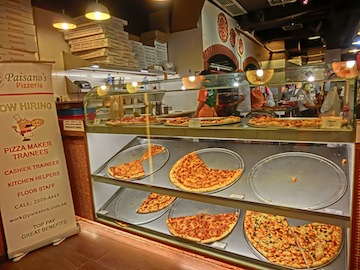
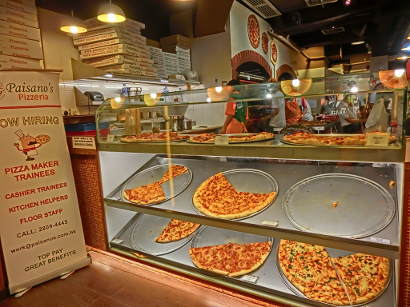
Minify js files. Set height and width of pizza images.

diff --git a/views/js/main.min.js b/views/js/main.min.js
@@ -1,1 +1,1 @@
-function getAdj(e){return pizzaAdjs[e]}function getNoun(e){return pizzaNouns[e]}function randomNumber(e){return Math.floor(Math.random()*e)}function pizzaNameGenerator(e,t){var n=getAdj(e);var r=getNoun(t);var i=randomNumber(ADJ_LENGTH);var s=randomNumber(NOUN_LENGTH);var o="The "+n[i].capitalize()+" "+r[s].capitalize();return o}function randomPizzaName(){var e=randomNumber(ADJ_LENGTH);var t=randomNumber(NOUN_LENGTH);return pizzaNameGenerator(adjectives[e],nouns[t])}function logAverageFrame(e){var t=e.length;var n=0;for(var r=t-1;r>t-11;r--){n=n+e[r].duration}console.log("Average time to generate last 10 frames: "+n/10+"ms")}function onScroll(){latestKnownScrollY=window.scrollY;requestTick()}function requestTick(){if(!ticking){requestAnimationFrame(updatePositions)}ticking=true}function updatePositions(){frame++;ticking=false;window.performance.mark("mark_start_frame");var e=document.querySelectorAll(".mover");var t=e.length;var n=latestKnownScrollY;for(var r=0;r<t;r++){var i=Math.sin(n/1250+r%5);e[r].style.left=e[r].basicLeft+"px";e[r].style.transform="translateX("+100*i+"px)"}window.performance.mark("mark_end_frame");window.performance.measure("measure_frame_duration","mark_start_frame","mark_end_frame");if(frame%10===0){var s=window.performance.getEntriesByName("measure_frame_duration");logAverageFrame(s)}}var pizzaIngredients={};pizzaIngredients.meats=["Pepperoni","Sausage","Fennel Sausage","Spicy Sausage","Chicken","BBQ Chicken","Chorizo","Chicken Andouille","Salami","Tofu","Bacon","Canadian Bacon","Proscuitto","Italian Sausage","Ground Beef","Anchovies","Turkey","Ham","Venison","Lamb","Duck","Soylent Green","Carne Asada","Soppressata Picante","Coppa","Pancetta","Bresola","Lox","Guanciale","Chili","Beef Jerky","Pastrami","Kielbasa","Scallops","Filet Mignon"];pizzaIngredients.nonMeats=["White Onions","Red Onions","Sauteed Onions","Green Peppers","Red Peppers","Banana Peppers","Ghost Peppers","Habanero Peppers","Jalapeno Peppers","Stuffed Peppers","Spinach","Tomatoes","Pineapple","Pear Slices","Apple Slices","Mushrooms","Arugula","Basil","Fennel","Rosemary","Cilantro","Avocado","Guacamole","Salsa","Swiss Chard","Kale","Sun Dried Tomatoes","Walnuts","Artichoke","Asparagus","Caramelized Onions","Mango","Garlic","Olives","Cauliflower","Polenta","Fried Egg","Zucchini","Hummus"];pizzaIngredients.cheeses=["American Cheese","Swiss Cheese","Goat Cheese","Mozzarella Cheese","Parmesean Cheese","Velveeta Cheese","Gouda Cheese","Muenster Cheese","Applewood Cheese","Asiago Cheese","Bleu Cheese","Boursin Cheese","Brie Cheese","Cheddar Cheese","Chevre Cheese","Havarti Cheese","Jack Cheese","Pepper Jack Cheese","Gruyere Cheese","Limberger Cheese","Manchego Cheese","Marscapone Cheese","Pecorino Cheese","Provolone Cheese","Queso Cheese","Roquefort Cheese","Romano Cheese","Ricotta Cheese","Smoked Gouda"];pizzaIngredients.sauces=["Red Sauce","Marinara","BBQ Sauce","No Sauce","Hot Sauce"];pizzaIngredients.crusts=["White Crust","Whole Wheat Crust","Flatbread Crust","Stuffed Crust"];var pizzaAdjs={};pizzaAdjs.dark=["dark","morbid","scary","spooky","gothic","deviant","creepy","sadistic","black","dangerous","dejected","haunted","morose","tragic","shattered","broken","sad","melancholy","somber","dark","gloomy","homicidal","murderous","shady","misty","dusky","ghostly","shadowy","demented","cursed","insane","possessed","grotesque","obsessed"];pizzaAdjs.colors=["blue","green","purple","grey","scarlet","NeonGreen","NeonBlue","NeonPink","HotPink","pink","black","red","maroon","silver","golden","yellow","orange","mustard","plum","violet","cerulean","brown","lavender","violet","magenta","chestnut","rosy","copper","crimson","teal","indigo","navy","azure","periwinkle","brassy","verdigris","veridian","tan","raspberry","beige","sandy","ElectricBlue","white","champagne","coral","cyan"];pizzaAdjs.whimsy=["whimsical","silly","drunken","goofy","funny","weird","strange","odd","playful","clever","boastful","breakdancing","hilarious","conceited","happy","comical","curious","peculiar","quaint","quirky","fancy","wayward","fickle","yawning","sleepy","cockeyed","dizzy","dancing","absurd","laughing","hairy","smiling","perplexed","baffled","cockamamie","vulgar","hoodwinked","brainwashed"];pizzaAdjs.shiny=["sapphire","opal","silver","gold","platinum","ruby","emerald","topaz","diamond","amethyst","turquoise","starlit","moonlit","bronze","metal","jade","amber","garnet","obsidian","onyx","pearl","copper","sunlit","brass","brassy","metallic"];pizzaAdjs.noisy=["untuned","loud","soft","shrieking","melodious","musical","operatic","symphonic","dancing","lyrical","harmonic","orchestral","noisy","dissonant","rhythmic","hissing","singing","crooning","shouting","screaming","wailing","crying","howling","yelling","hollering","caterwauling","bawling","bellowing","roaring","squealing","beeping","knocking","tapping","rapping","humming","scatting","whispered","whispering","rasping","buzzing","whirring","whistling","whistled"];pizzaAdjs.apocalyptic=["nuclear","apocalyptic","desolate","atomic","zombie","collapsed","grim","fallen","collapsed","cannibalistic","radioactive","toxic","poisonous","venomous","disastrous","grimy","dirty","undead","bloodshot","rusty","glowing","decaying","rotten","deadly","plagued","decimated","rotting","putrid","decayed","deserted","acidic"];pizzaAdjs.insulting=["stupid","idiotic","fat","ugly","hideous","grotesque","dull","dumb","lazy","sluggish","brainless","slow","gullible","obtuse","dense","dim","dazed","ridiculous","witless","daft","crazy","vapid","inane","mundane","hollow","vacuous","boring","insipid","tedious","monotonous","weird","bizarre","backward","moronic","ignorant","scatterbrained","forgetful","careless","lethargic","insolent","indolent","loitering","gross","disgusting","bland","horrid","unseemly","revolting","homely","deformed","disfigured","offensive","cowardly","weak","villainous","fearful","monstrous","unattractive","unpleasant","nasty","beastly","snide","horrible","syncophantic","unhelpful","bootlicking"];pizzaAdjs.praise=["beautiful","intelligent","smart","genius","ingenious","gorgeous","pretty","witty","angelic","handsome","graceful","talented","exquisite","enchanting","fascinating","interesting","divine","alluring","ravishing","wonderful","magnificient","marvelous","dazzling","cute","charming","attractive","nifty","delightful","superior","amiable","gentle","heroic","courageous","valiant","brave","noble","daring","fearless","gallant","adventurous","cool","enthusiastic","fierce","awesome","radical","tubular","fearsome","majestic","grand","stunning"];pizzaAdjs.scientific=["scientific","technical","digital","programming","calculating","formulating","cyberpunk","mechanical","technological","innovative","brainy","chemical","quantum","astro","space","theoretical","atomic","electronic","gaseous","investigative","solar","extinct","galactic"];var pizzaNouns={};pizzaNouns.animals=["flamingo","hedgehog","owl","elephant","pussycat","alligator","dachsund","poodle","beagle","crocodile","kangaroo","wallaby","woodpecker","eagle","falcon","canary","parrot","parakeet","hamster","gerbil","squirrel","rat","dove","toucan","raccoon","vulture","peacock","goldfish","rook","koala","skunk","goat","rooster","fox","porcupine","llama","grasshopper","gorilla","monkey","seahorse","wombat","wolf","giraffe","badger","lion","mouse","beetle","cricket","nightingale","hawk","trout","squid","octopus","sloth","snail","locust","baboon","lemur","meerkat","oyster","frog","toad","jellyfish","butterfly","caterpillar","tiger","hyena","zebra","snail","pig","weasel","donkey","penguin","crane","buzzard","vulture","rhino","hippopotamus","dolphin","sparrow","beaver","moose","minnow","otter","bat","mongoose","swan","firefly","platypus"];pizzaNouns.professions=["doctor","lawyer","ninja","writer","samurai","surgeon","clerk","artist","actor","engineer","mechanic","comedian","fireman","nurse","RockStar","musician","carpenter","plumber","cashier","electrician","waiter","president","governor","senator","scientist","programmer","singer","dancer","director","mayor","merchant","detective","investigator","navigator","pilot","priest","cowboy","stagehand","soldier","ambassador","pirate","miner","police"];pizzaNouns.fantasy=["centaur","wizard","gnome","orc","troll","sword","fairy","pegasus","halfling","elf","changeling","ghost","knight","squire","magician","witch","warlock","unicorn","dragon","wyvern","princess","prince","king","queen","jester","tower","castle","kraken","seamonster","mermaid","psychic","seer","oracle"];pizzaNouns.music=["violin","flute","bagpipe","guitar","symphony","orchestra","piano","trombone","tuba","opera","drums","harpsichord","harp","harmonica","accordion","tenor","soprano","baritone","cello","viola","piccolo","ukelele","woodwind","saxophone","bugle","trumpet","sousaphone","cornet","stradivarius","marimbas","bells","timpani","bongos","clarinet","recorder","oboe","conductor","singer"];pizzaNouns.horror=["murderer","chainsaw","knife","sword","murder","devil","killer","psycho","ghost","monster","godzilla","werewolf","vampire","demon","graveyard","zombie","mummy","curse","death","grave","tomb","beast","nightmare","frankenstein","specter","poltergeist","wraith","corpse","scream","massacre","cannibal","skull","bones","undertaker","zombie","creature","mask","psychopath","fiend","satanist","moon","fullMoon"];pizzaNouns.gross=["slime","bug","roach","fluid","pus","booger","spit","boil","blister","orifice","secretion","mucus","phlegm","centipede","beetle","fart","snot","crevice","flatulence","juice","mold","mildew","germs","discharge","toilet","udder","odor","substance","fluid","moisture","garbage","trash","bug"];pizzaNouns.everyday=["mirror","knife","fork","spork","spoon","tupperware","minivan","suburb","lamp","desk","stereo","television","TV","book","car","truck","soda","door","video","game","computer","calender","tree","plant","flower","chimney","attic","kitchen","garden","school","wallet","bottle"];pizzaNouns.jewelry=["earrings","ring","necklace","pendant","choker","brooch","bracelet","cameo","charm","bauble","trinket","jewelry","anklet","bangle","locket","finery","crown","tiara","blingBling","chain","rosary","jewel","gemstone","beads","armband","pin","costume","ornament","treasure"];pizzaNouns.places=["swamp","graveyard","cemetery","park","building","house","river","ocean","sea","field","forest","woods","neighborhood","city","town","suburb","country","meadow","cliffs","lake","stream","creek","school","college","university","library","bakery","shop","store","theater","garden","canyon","highway","restaurant","cafe","diner","street","road","freeway","alley"];pizzaNouns.scifi=["robot","alien","raygun","spaceship","UFO","rocket","phaser","astronaut","spaceman","planet","star","galaxy","computer","future","timeMachine","wormHole","timeTraveler","scientist","invention","martian","pluto","jupiter","saturn","mars","quasar","blackHole","warpDrive","laser","orbit","gears","molecule","electron","neutrino","proton","experiment","photon","apparatus","universe","gravity","darkMatter","constellation","circuit","asteroid"];var adjectives=["dark","colors","whimsy","shiny","noisy","apocalyptic","insulting","praise","scientific"];var nouns=["animals","everyday","fantasy","gross","professions","horror","jewelry","places","scifi"];var NUMBER_OF_PIZZA=100,ADJ_LENGTH=adjectives.length,NOUN_LENGTH=nouns.length,MEAT_LENGTH=pizzaIngredients.meats.length,NONMEAT_LENGTH=pizzaIngredients.nonMeats.length,CHEESES_LENGTH=pizzaIngredients.cheeses.length,SAUCES_LENGTH=pizzaIngredients.sauces.length,CRUSTS_LENGTH=pizzaIngredients.crusts.length;String.prototype.capitalize=function(){return this.charAt(0).toUpperCase()+this.slice(1)};var selectRandomMeat=function(){return pizzaIngredients.meats[randomNumber(MEAT_LENGTH)]};var selectRandomNonMeat=function(){return pizzaIngredients.nonMeats[randomNumber(NONMEAT_LENGTH)]};var selectRandomCheese=function(){return pizzaIngredients.cheeses[randomNumber(CHEESES_LENGTH)]};var selectRandomSauce=function(){return pizzaIngredients.sauces[randomNumber(SAUCES_LENGTH)]};var selectRandomCrust=function(){return pizzaIngredients.crusts[randomNumber(CRUSTS_LENGTH)]};var ingredientItemizer=function(e){return"<li>"+e+"</li>"};var makeRandomPizzaIngredients=function(){var e="";var t=Math.floor(Math.random()*4);var n=Math.floor(Math.random()*3);var r=Math.floor(Math.random()*2);for(var i=0;i<t;i++){e=e+ingredientItemizer(selectRandomMeat())}for(var i=0;i<n;i++){e=e+ingredientItemizer(selectRandomNonMeat())}for(var i=0;i<r;i++){e=e+ingredientItemizer(selectRandomCheese())}e=e+ingredientItemizer(selectRandomSauce());e=e+ingredientItemizer(selectRandomCrust());return e};var pizzaElementGenerator=function(e){var t,n,r,i,s,o;t=document.createElement("div");n=document.createElement("div");r=document.createElement("img");i=document.createElement("div");t.classList.add("randomPizzaContainer");t.style.width="33.33%";t.style.height="325px";t.id="pizza"+e;n.classList.add("col-md-6");r.src="images/pizza.png";r.classList.add("img-responsive");n.appendChild(r);t.appendChild(n);i.classList.add("col-md-6");s=document.createElement("h4");s.innerHTML=randomPizzaName();i.appendChild(s);o=document.createElement("ul");o.innerHTML=makeRandomPizzaIngredients();i.appendChild(o);t.appendChild(i);return t};window.performance.mark("mark_start_generating");var pizzasDiv=document.getElementById("randomPizzas");var allPizzas=[];for(var i=2;i<NUMBER_OF_PIZZA;i++){pizza=pizzaElementGenerator(i);pizzasDiv.appendChild(pizza)}window.performance.mark("mark_end_generating");window.performance.measure("measure_pizza_generation","mark_start_generating","mark_end_generating");var timeToGenerate=window.performance.getEntriesByName("measure_pizza_generation");console.log("Time to generate 100 pizzas on load: "+timeToGenerate[0].duration+"ms");var frame=0;var latestKnownScrollY=0;var ticking=false;window.addEventListener("scroll",onScroll,false);document.addEventListener("DOMContentLoaded",function(){var e=8;var t=256;var n=[];for(var r=0;r<32;r++){var i=document.createElement("img");i.classList.add("mover");i.src="images/pizza_bg.png";i.style.height="100px";i.style.width="77px";i.basicLeft=r%e*t;i.style.top=Math.floor(r/e)*t+"px";n.push(i)}n.forEach(function(e){document.querySelector("#movingPizzas1").appendChild(e)});updatePositions()});document.getElementById("contact").addEventListener("submit",function(){alert("Thanks for clicking! This button doesn't do anything because this is a fake pizzeria :)")});var resizerInput=document.getElementById("sizeSlider");resizerInput.addEventListener("change",function(){resizePizzas(resizerInput.value)})
+function getAdj(e){return pizzaAdjs[e]}function getNoun(e){return pizzaNouns[e]}function randomNumber(e){return Math.floor(Math.random()*e)}function pizzaNameGenerator(e,t){var n=getAdj(e);var r=getNoun(t);var i=randomNumber(ADJ_LENGTH);var s=randomNumber(NOUN_LENGTH);var o="The "+n[i].capitalize()+" "+r[s].capitalize();return o}function randomPizzaName(){var e=randomNumber(ADJ_LENGTH);var t=randomNumber(NOUN_LENGTH);return pizzaNameGenerator(adjectives[e],nouns[t])}function logAverageFrame(e){var t=e.length;var n=0;for(var r=t-1;r>t-11;r--){n=n+e[r].duration}console.log("Average time to generate last 10 frames: "+n/10+"ms")}function onScroll(){latestKnownScrollY=window.scrollY;requestTick()}function requestTick(){if(!ticking){requestAnimationFrame(updatePositions)}ticking=true}function updatePositions(){frame++;ticking=false;window.performance.mark("mark_start_frame");var e=document.querySelectorAll(".mover");var t=e.length;var n=latestKnownScrollY;for(var r=0;r<t;r++){var i=Math.sin(n/1250+r%5);e[r].style.left=e[r].basicLeft+"px";e[r].style.transform="translateX("+100*i+"px)"}window.performance.mark("mark_end_frame");window.performance.measure("measure_frame_duration","mark_start_frame","mark_end_frame");if(frame%10===0){var s=window.performance.getEntriesByName("measure_frame_duration");logAverageFrame(s)}}var pizzaIngredients={};pizzaIngredients.meats=["Pepperoni","Sausage","Fennel Sausage","Spicy Sausage","Chicken","BBQ Chicken","Chorizo","Chicken Andouille","Salami","Tofu","Bacon","Canadian Bacon","Proscuitto","Italian Sausage","Ground Beef","Anchovies","Turkey","Ham","Venison","Lamb","Duck","Soylent Green","Carne Asada","Soppressata Picante","Coppa","Pancetta","Bresola","Lox","Guanciale","Chili","Beef Jerky","Pastrami","Kielbasa","Scallops","Filet Mignon"];pizzaIngredients.nonMeats=["White Onions","Red Onions","Sauteed Onions","Green Peppers","Red Peppers","Banana Peppers","Ghost Peppers","Habanero Peppers","Jalapeno Peppers","Stuffed Peppers","Spinach","Tomatoes","Pineapple","Pear Slices","Apple Slices","Mushrooms","Arugula","Basil","Fennel","Rosemary","Cilantro","Avocado","Guacamole","Salsa","Swiss Chard","Kale","Sun Dried Tomatoes","Walnuts","Artichoke","Asparagus","Caramelized Onions","Mango","Garlic","Olives","Cauliflower","Polenta","Fried Egg","Zucchini","Hummus"];pizzaIngredients.cheeses=["American Cheese","Swiss Cheese","Goat Cheese","Mozzarella Cheese","Parmesean Cheese","Velveeta Cheese","Gouda Cheese","Muenster Cheese","Applewood Cheese","Asiago Cheese","Bleu Cheese","Boursin Cheese","Brie Cheese","Cheddar Cheese","Chevre Cheese","Havarti Cheese","Jack Cheese","Pepper Jack Cheese","Gruyere Cheese","Limberger Cheese","Manchego Cheese","Marscapone Cheese","Pecorino Cheese","Provolone Cheese","Queso Cheese","Roquefort Cheese","Romano Cheese","Ricotta Cheese","Smoked Gouda"];pizzaIngredients.sauces=["Red Sauce","Marinara","BBQ Sauce","No Sauce","Hot Sauce"];pizzaIngredients.crusts=["White Crust","Whole Wheat Crust","Flatbread Crust","Stuffed Crust"];var pizzaAdjs={};pizzaAdjs.dark=["dark","morbid","scary","spooky","gothic","deviant","creepy","sadistic","black","dangerous","dejected","haunted","morose","tragic","shattered","broken","sad","melancholy","somber","dark","gloomy","homicidal","murderous","shady","misty","dusky","ghostly","shadowy","demented","cursed","insane","possessed","grotesque","obsessed"];pizzaAdjs.colors=["blue","green","purple","grey","scarlet","NeonGreen","NeonBlue","NeonPink","HotPink","pink","black","red","maroon","silver","golden","yellow","orange","mustard","plum","violet","cerulean","brown","lavender","violet","magenta","chestnut","rosy","copper","crimson","teal","indigo","navy","azure","periwinkle","brassy","verdigris","veridian","tan","raspberry","beige","sandy","ElectricBlue","white","champagne","coral","cyan"];pizzaAdjs.whimsy=["whimsical","silly","drunken","goofy","funny","weird","strange","odd","playful","clever","boastful","breakdancing","hilarious","conceited","happy","comical","curious","peculiar","quaint","quirky","fancy","wayward","fickle","yawning","sleepy","cockeyed","dizzy","dancing","absurd","laughing","hairy","smiling","perplexed","baffled","cockamamie","vulgar","hoodwinked","brainwashed"];pizzaAdjs.shiny=["sapphire","opal","silver","gold","platinum","ruby","emerald","topaz","diamond","amethyst","turquoise","starlit","moonlit","bronze","metal","jade","amber","garnet","obsidian","onyx","pearl","copper","sunlit","brass","brassy","metallic"];pizzaAdjs.noisy=["untuned","loud","soft","shrieking","melodious","musical","operatic","symphonic","dancing","lyrical","harmonic","orchestral","noisy","dissonant","rhythmic","hissing","singing","crooning","shouting","screaming","wailing","crying","howling","yelling","hollering","caterwauling","bawling","bellowing","roaring","squealing","beeping","knocking","tapping","rapping","humming","scatting","whispered","whispering","rasping","buzzing","whirring","whistling","whistled"];pizzaAdjs.apocalyptic=["nuclear","apocalyptic","desolate","atomic","zombie","collapsed","grim","fallen","collapsed","cannibalistic","radioactive","toxic","poisonous","venomous","disastrous","grimy","dirty","undead","bloodshot","rusty","glowing","decaying","rotten","deadly","plagued","decimated","rotting","putrid","decayed","deserted","acidic"];pizzaAdjs.insulting=["stupid","idiotic","fat","ugly","hideous","grotesque","dull","dumb","lazy","sluggish","brainless","slow","gullible","obtuse","dense","dim","dazed","ridiculous","witless","daft","crazy","vapid","inane","mundane","hollow","vacuous","boring","insipid","tedious","monotonous","weird","bizarre","backward","moronic","ignorant","scatterbrained","forgetful","careless","lethargic","insolent","indolent","loitering","gross","disgusting","bland","horrid","unseemly","revolting","homely","deformed","disfigured","offensive","cowardly","weak","villainous","fearful","monstrous","unattractive","unpleasant","nasty","beastly","snide","horrible","syncophantic","unhelpful","bootlicking"];pizzaAdjs.praise=["beautiful","intelligent","smart","genius","ingenious","gorgeous","pretty","witty","angelic","handsome","graceful","talented","exquisite","enchanting","fascinating","interesting","divine","alluring","ravishing","wonderful","magnificient","marvelous","dazzling","cute","charming","attractive","nifty","delightful","superior","amiable","gentle","heroic","courageous","valiant","brave","noble","daring","fearless","gallant","adventurous","cool","enthusiastic","fierce","awesome","radical","tubular","fearsome","majestic","grand","stunning"];pizzaAdjs.scientific=["scientific","technical","digital","programming","calculating","formulating","cyberpunk","mechanical","technological","innovative","brainy","chemical","quantum","astro","space","theoretical","atomic","electronic","gaseous","investigative","solar","extinct","galactic"];var pizzaNouns={};pizzaNouns.animals=["flamingo","hedgehog","owl","elephant","pussycat","alligator","dachsund","poodle","beagle","crocodile","kangaroo","wallaby","woodpecker","eagle","falcon","canary","parrot","parakeet","hamster","gerbil","squirrel","rat","dove","toucan","raccoon","vulture","peacock","goldfish","rook","koala","skunk","goat","rooster","fox","porcupine","llama","grasshopper","gorilla","monkey","seahorse","wombat","wolf","giraffe","badger","lion","mouse","beetle","cricket","nightingale","hawk","trout","squid","octopus","sloth","snail","locust","baboon","lemur","meerkat","oyster","frog","toad","jellyfish","butterfly","caterpillar","tiger","hyena","zebra","snail","pig","weasel","donkey","penguin","crane","buzzard","vulture","rhino","hippopotamus","dolphin","sparrow","beaver","moose","minnow","otter","bat","mongoose","swan","firefly","platypus"];pizzaNouns.professions=["doctor","lawyer","ninja","writer","samurai","surgeon","clerk","artist","actor","engineer","mechanic","comedian","fireman","nurse","RockStar","musician","carpenter","plumber","cashier","electrician","waiter","president","governor","senator","scientist","programmer","singer","dancer","director","mayor","merchant","detective","investigator","navigator","pilot","priest","cowboy","stagehand","soldier","ambassador","pirate","miner","police"];pizzaNouns.fantasy=["centaur","wizard","gnome","orc","troll","sword","fairy","pegasus","halfling","elf","changeling","ghost","knight","squire","magician","witch","warlock","unicorn","dragon","wyvern","princess","prince","king","queen","jester","tower","castle","kraken","seamonster","mermaid","psychic","seer","oracle"];pizzaNouns.music=["violin","flute","bagpipe","guitar","symphony","orchestra","piano","trombone","tuba","opera","drums","harpsichord","harp","harmonica","accordion","tenor","soprano","baritone","cello","viola","piccolo","ukelele","woodwind","saxophone","bugle","trumpet","sousaphone","cornet","stradivarius","marimbas","bells","timpani","bongos","clarinet","recorder","oboe","conductor","singer"];pizzaNouns.horror=["murderer","chainsaw","knife","sword","murder","devil","killer","psycho","ghost","monster","godzilla","werewolf","vampire","demon","graveyard","zombie","mummy","curse","death","grave","tomb","beast","nightmare","frankenstein","specter","poltergeist","wraith","corpse","scream","massacre","cannibal","skull","bones","undertaker","zombie","creature","mask","psychopath","fiend","satanist","moon","fullMoon"];pizzaNouns.gross=["slime","bug","roach","fluid","pus","booger","spit","boil","blister","orifice","secretion","mucus","phlegm","centipede","beetle","fart","snot","crevice","flatulence","juice","mold","mildew","germs","discharge","toilet","udder","odor","substance","fluid","moisture","garbage","trash","bug"];pizzaNouns.everyday=["mirror","knife","fork","spork","spoon","tupperware","minivan","suburb","lamp","desk","stereo","television","TV","book","car","truck","soda","door","video","game","computer","calender","tree","plant","flower","chimney","attic","kitchen","garden","school","wallet","bottle"];pizzaNouns.jewelry=["earrings","ring","necklace","pendant","choker","brooch","bracelet","cameo","charm","bauble","trinket","jewelry","anklet","bangle","locket","finery","crown","tiara","blingBling","chain","rosary","jewel","gemstone","beads","armband","pin","costume","ornament","treasure"];pizzaNouns.places=["swamp","graveyard","cemetery","park","building","house","river","ocean","sea","field","forest","woods","neighborhood","city","town","suburb","country","meadow","cliffs","lake","stream","creek","school","college","university","library","bakery","shop","store","theater","garden","canyon","highway","restaurant","cafe","diner","street","road","freeway","alley"];pizzaNouns.scifi=["robot","alien","raygun","spaceship","UFO","rocket","phaser","astronaut","spaceman","planet","star","galaxy","computer","future","timeMachine","wormHole","timeTraveler","scientist","invention","martian","pluto","jupiter","saturn","mars","quasar","blackHole","warpDrive","laser","orbit","gears","molecule","electron","neutrino","proton","experiment","photon","apparatus","universe","gravity","darkMatter","constellation","circuit","asteroid"];var adjectives=["dark","colors","whimsy","shiny","noisy","apocalyptic","insulting","praise","scientific"];var nouns=["animals","everyday","fantasy","gross","professions","horror","jewelry","places","scifi"];var NUMBER_OF_PIZZA=100,ADJ_LENGTH=adjectives.length,NOUN_LENGTH=nouns.length,MEAT_LENGTH=pizzaIngredients.meats.length,NONMEAT_LENGTH=pizzaIngredients.nonMeats.length,CHEESES_LENGTH=pizzaIngredients.cheeses.length,SAUCES_LENGTH=pizzaIngredients.sauces.length,CRUSTS_LENGTH=pizzaIngredients.crusts.length;String.prototype.capitalize=function(){return this.charAt(0).toUpperCase()+this.slice(1)};var selectRandomMeat=function(){return pizzaIngredients.meats[randomNumber(MEAT_LENGTH)]};var selectRandomNonMeat=function(){return pizzaIngredients.nonMeats[randomNumber(NONMEAT_LENGTH)]};var selectRandomCheese=function(){return pizzaIngredients.cheeses[randomNumber(CHEESES_LENGTH)]};var selectRandomSauce=function(){return pizzaIngredients.sauces[randomNumber(SAUCES_LENGTH)]};var selectRandomCrust=function(){return pizzaIngredients.crusts[randomNumber(CRUSTS_LENGTH)]};var ingredientItemizer=function(e){return"<li>"+e+"</li>"};var makeRandomPizzaIngredients=function(){var e="";var t=Math.floor(Math.random()*4);var n=Math.floor(Math.random()*3);var r=Math.floor(Math.random()*2);for(var i=0;i<t;i++){e=e+ingredientItemizer(selectRandomMeat())}for(var i=0;i<n;i++){e=e+ingredientItemizer(selectRandomNonMeat())}for(var i=0;i<r;i++){e=e+ingredientItemizer(selectRandomCheese())}e=e+ingredientItemizer(selectRandomSauce());e=e+ingredientItemizer(selectRandomCrust());return e};var pizzaElementGenerator=function(e){var t,n,r,i,s,o;t=document.createElement("div");n=document.createElement("div");r=document.createElement("img");i=document.createElement("div");t.classList.add("randomPizzaContainer");t.style.width="33.33%";t.style.height="325px";t.id="pizza"+e;n.classList.add("col-md-6");r.src="images/pizza.png";r.classList.add("img-responsive");r.setAttribute("width","232");r.setAttribute("height","300");n.appendChild(r);t.appendChild(n);i.classList.add("col-md-6");s=document.createElement("h4");s.innerHTML=randomPizzaName();i.appendChild(s);o=document.createElement("ul");o.innerHTML=makeRandomPizzaIngredients();i.appendChild(o);t.appendChild(i);return t};window.performance.mark("mark_start_generating");var pizzasDiv=document.getElementById("randomPizzas");var allPizzas=[];for(var i=2;i<NUMBER_OF_PIZZA;i++){pizza=pizzaElementGenerator(i);pizzasDiv.appendChild(pizza)}window.performance.mark("mark_end_generating");window.performance.measure("measure_pizza_generation","mark_start_generating","mark_end_generating");var timeToGenerate=window.performance.getEntriesByName("measure_pizza_generation");console.log("Time to generate 100 pizzas on load: "+timeToGenerate[0].duration+"ms");var frame=0;var latestKnownScrollY=0;var ticking=false;window.addEventListener("scroll",onScroll,false);document.addEventListener("DOMContentLoaded",function(){var e=8;var t=256;var n=[];for(var r=0;r<32;r++){var i=document.createElement("img");i.classList.add("mover");i.src="images/pizza_bg.png";i.setAttribute("height","100");i.setAttribute("width","77");i.basicLeft=r%e*t;i.style.top=Math.floor(r/e)*t+"px";n.push(i)}n.forEach(function(e){document.querySelector("#movingPizzas1").appendChild(e)});updatePositions()});document.getElementById("contact").addEventListener("submit",function(){alert("Thanks for clicking! This button doesn't do anything because this is a fake pizzeria :)")});var resizerInput=document.getElementById("sizeSlider");resizerInput.addEventListener("change",function(){resizePizzas(resizerInput.value)})

diff --git a/views/pizza.html b/views/pizza.html
@@ -8,7 +8,7 @@
   <title>Cam's Pizzeria</title>
   <style>
   /*from style.css*/
-  *{-webkit-box-sizing:border-box;-moz-box-sizing:border-box;-box-sizing:border-box}body{font-family:"Trebuchet MS",Helvetica,sans-serif;background:#000}input{background:grey;font-size:18px}form{display:inline-block}.centered{text-align:center}#pizzaSize{font-weight:800}.mover{position:fixed;width:256px;z-index:-1;-webkit-backface-visibility:hidden;-webkit-perspective:1000}.randomPizzaContainer{float:left;display:flex}.randomPizzaContainer:after{content:"";display:table;clear:both}
+  *{-webkit-box-sizing:border-box;-moz-box-sizing:border-box;-box-sizing:border-box}body{font-family:"Trebuchet MS",Helvetica,sans-serif;background:#000}input{background:grey;font-size:18px}form{display:inline-block}.centered{text-align:center}#pizzaSize{font-weight:800}.mover{position:fixed;z-index:-1;-webkit-backface-visibility:hidden;-webkit-perspective:1000}.randomPizzaContainer{float:left;display:flex}.randomPizzaContainer:after{content:"";display:table;clear:both}
   
   /*from bootstrap-grid.css*/
   img{vertical-align:middle}.img-responsive{display:block;max-width:100%;height:auto}.container{background-color:rgba(240,60,60,.8);margin-right:auto;margin-left:auto;padding-left:15px;padding-right:15px}@media (min-width:768px){.container{width:750px}}@media (min-width:992px){.container{width:970px}}@media (min-width:1200px){.container{width:1170px}}.row{margin-left:-15px;margin-right:-15px}.col-md-push-3{left:25%}.col-md-push-2{left:16.66666667%}.col-md-12{width:100%}.col-md-8{width:66.66666667%}.col-md-6{width:50%}.col-md-4{width:33.33333333%}.col-md-12,.col-md-4,.col-md-6,.col-md-8{position:relative;min-height:1px;padding-left:15px;padding-right:15px}.clearfix:after,.clearfix:before,.container:after,.container:before,.row:after,.row:before{content:" ";display:table}.clearfix:after,.container:after,.row:after{clear:both}
@@ -145,7 +145,7 @@
     </div>
     <div id="footer" class="col-md-12">Thanks for visiting! &copy; 2014 Udacity</div>
   </div>
-  <script type="text/javascript" src="js/main.js"></script>
-  <script type="text/javascript" src="js/pizzaResizer.js" async></script>
+  <script type="text/javascript" src="js/main.min.js"></script>
+  <script type="text/javascript" src="js/pizzaResizer.min.js" async></script>
 </body>
 </html>

diff --git a/views/js/pizzaResizer.min.js b/views/js/pizzaResizer.min.js
@@ -1,0 +1,1 @@
+var resizePizzas=function(e){function t(e){var t=document.querySelector("#pizzaSize");switch(e){case"1":t.innerHTML="Small";return;case"2":t.innerHTML="Medium";return;case"3":t.innerHTML="Large";return;default:console.log("bug in changeSliderLabel")}}function n(e,t){function s(e){switch(e){case"1":return.25;case"2":return.3333;case"3":return.5;default:console.log("bug in sizeSwitcher")}}var n=e.offsetWidth;var r=document.querySelector("div#randomPizzas").offsetWidth;var i=n/r;var o=s(t);var u=(o-i)*r;return u}function r(e){var t=document.querySelectorAll(".randomPizzaContainer");var r=t.length;var i=n(t[0],e);var s=t[0].offsetWidth+i+"px";for(var o=0;o<r;o++){t[o].style.width=s}}window.performance.mark("mark_start_resize");t(e);r(e);window.performance.mark("mark_end_resize");window.performance.measure("measure_pizza_resize","mark_start_resize","mark_end_resize");var i=window.performance.getEntriesByName("measure_pizza_resize");console.log("Time to resize pizzas: "+i[0].duration+"ms")}

diff --git a/views/js/main.js b/views/js/main.js
@@ -166,6 +166,8 @@ var pizzaElementGenerator = function(i) {
 
   pizzaImage.src = "images/pizza.png";
   pizzaImage.classList.add("img-responsive");
+  pizzaImage.setAttribute("width", "232");
+  pizzaImage.setAttribute("height", "300");
   pizzaImageContainer.appendChild(pizzaImage);
   pizzaContainer.appendChild(pizzaImageContainer);
 
@@ -260,11 +262,10 @@ document.addEventListener('DOMContentLoaded', function() {
   var allMovingPizzas = [];
   for (var i = 0; i < 32; i++) {
     var elem = document.createElement('img');
-    // elem.className = 'mover';
     elem.classList.add('mover');
     elem.src = "images/pizza_bg.png";
-    elem.style.height = "100px";
-    elem.style.width = "77px";
+    elem.setAttribute("height", "100");
+    elem.setAttribute("width", "77");
     elem.basicLeft = (i % cols) * s;
     elem.style.top = (Math.floor(i / cols) * s) + 'px';
     allMovingPizzas.push(elem);
